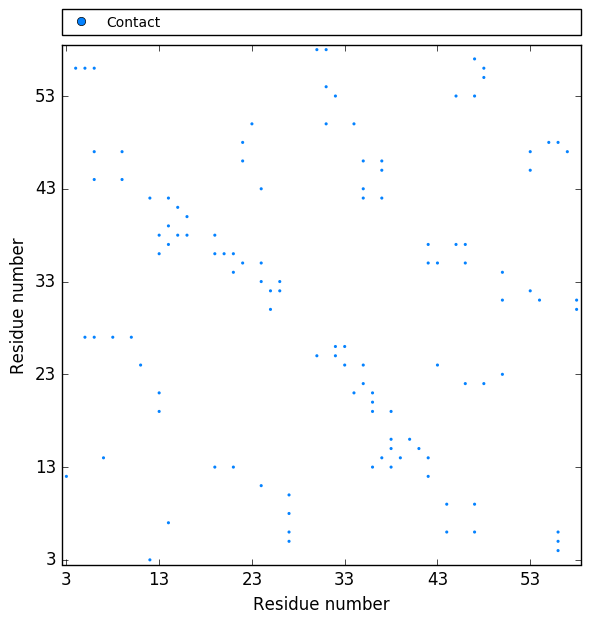
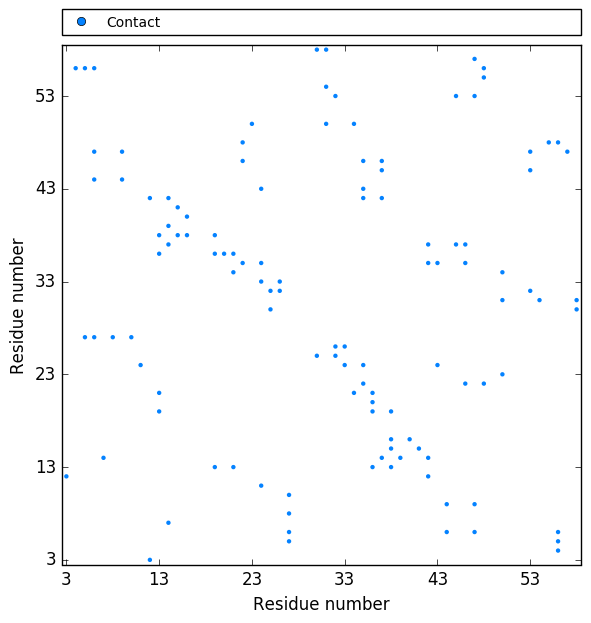
huge update on look and backend of plots; easy make cmd for figure generation added; scripts slightly modified; figures updated

Changed region(s): [[0.7614, 0.366, 0.7919, 0.3965], [0.6091, 0.61, 0.6396, 0.6404]]

diff --git a/conkit/plot/ContactMapPlot.py b/conkit/plot/ContactMapPlot.py
@@ -13,7 +13,6 @@ import matplotlib.pyplot
 import numpy
 
 from conkit import constants
-from conkit.core import ContactMap
 from conkit.plot._Figure import Figure
 
 
@@ -25,11 +24,11 @@ class ContactMapFigure(Figure):
         Parameters
         ----------
         hierarchy : :obj:`conkit.core.ContactMap`
-           A ConKit :obj:`conkit.core.ContactMap`
+           The default contact map hierarchy
         other : :obj:`conkit.core.ContactMap`, optional
-           A ConKit :obj:`conkit.core.ContactMap`
+           The second contact map hierarchy
         reference : :obj:`conkit.core.ContactMap`, optional
-           A ConKit :obj:`conkit.core.ContactMap` [this map refers to the reference contacts]
+           The reference contact map hierarchy
         altloc : bool, optional
            Use the res_altloc positions [default: False]
         use_conf : bool, optional
@@ -37,37 +36,70 @@ class ContactMapFigure(Figure):
         **kwargs
            General :obj:`conkit.plot._Figure.Figure` keyword arguments
 
-        Raises
-        ------
-        RuntimeError
-           The hierarchy is not a :obj:`conkit.core.SequenceFile` object
-
         """
         super(ContactMapFigure, self).__init__(**kwargs)
 
-        if not isinstance(hierarchy, ContactMap):
-            raise RuntimeError("Provided hierarchy is not a ContactMap")
-        elif other and not isinstance(other, ContactMap):
-            raise RuntimeError("Provided other hierarchy is not a ContactMap")
-        elif reference and not isinstance(reference, ContactMap):
-            raise RuntimeError("Provided reference hierarchy is not a ContactMap")
+        self._hierarchy = None
+        self._other = None
+        self._reference = None
 
-        self._hierarchy = hierarchy
-        self._other = other
-        self._reference = reference
-        self._altloc = altloc
-        self._use_conf = use_conf
+        self.altloc = altloc
+        self.use_conf = use_conf
+
+        self.hierarchy = hierarchy
+        self.other = other
+        self.reference = reference
 
         self._draw()
 
-    def draw(self):
+    @property
+    def hierarchy(self):
+        """The default contact map hierarchy"""
+        return self._hierarchy
+
+    @hierarchy.setter
+    def hierarchy(self, hierarchy):
+        """Define the default contact map hierarchy"""
+        if hierarchy:
+            Figure._check_hierarchy(hierarchy, "ContactMap")
+        self._hierarchy = hierarchy
+
+    @property
+    def other(self):
+        """The second contact map hierarchy"""
+        return self._other
+
+    @other.setter
+    def other(self, hierarchy):
+        """Define the default contact map hierarchy"""
+        if hierarchy:
+            Figure._check_hierarchy(hierarchy, "ContactMap")
+        self._other = hierarchy
+
+    @property
+    def reference(self):
+        """The reference contact map hierarchy"""
+        return self._reference
+
+    @reference.setter
+    def reference(self, hierarchy):
+        """Define the reference contact map hierarchy"""
+        if hierarchy:
+            Figure._check_hierarchy(hierarchy, "ContactMap")
+        self._reference = hierarchy
+
+    def redraw(self):
+        """Re-draw the plot with updated parameters"""
+        self._draw()
+
+    def _draw(self):
         """Draw the actual plot"""
 
         fig, ax = matplotlib.pyplot.subplots(dpi=self.dpi)
 
         # Plot the other_ref contacts
         if self._reference:
-            if self._altloc:
+            if self.altloc:
                 reference_data = numpy.asarray([(c.res1_altseq, c.res2_altseq)
                                                 for c in self._reference if c.is_true_positive])
             else:
@@ -75,9 +107,9 @@ class ContactMapFigure(Figure):
                                                 for c in self._reference if c.is_true_positive])
             reference_colors = [constants.RFCOLOR for _ in range(len(reference_data))]
             ax.scatter(reference_data.T[0], reference_data.T[1], color=reference_colors,
-                       marker='.', edgecolor='none', linewidths=0.0)
+                       s=10, marker='o', edgecolor='none', linewidths=0.0)
             ax.scatter(reference_data.T[1], reference_data.T[0], color=reference_colors,
-                       marker='.', edgecolor='none', linewidths=0.0)
+                       s=10, marker='o', edgecolor='none', linewidths=0.0)
 
         # Plot the self contacts
         self_data = numpy.asarray([(c.res1_seq, c.res2_seq, c.raw_score) for c in self._hierarchy])
@@ -86,14 +118,14 @@ class ContactMapFigure(Figure):
             else constants.FPCOLOR if contact.is_false_positive
             else constants.NTCOLOR for contact in self._hierarchy
             ]
-        if self._use_conf:
-            # TODO: Find a better scaling algorithm
-            self_sizes = (self_data.T[2] - self_data.T[2].min()) / (self_data.T[2].max() - self_data.T[2].min()) * 500
+        if self.use_conf:
+            self_sizes = (self_data.T[2] - self_data.T[2].min()) / (self_data.T[2].max() - self_data.T[2].min())
+            self_sizes = self_sizes * 20 + 10
         else:
-            self_sizes = None
+            self_sizes = [10] * len(self_data.T[2])
 
         # This is the bottom triangle
-        ax.scatter(self_data.T[1], self_data.T[0], color=self_colors, marker='.',
+        ax.scatter(self_data.T[1], self_data.T[0], color=self_colors, marker='o',
                    s=self_sizes, edgecolor='none', linewidths=0.0)
 
         # Plot the other contacts
@@ -104,17 +136,17 @@ class ContactMapFigure(Figure):
                 else constants.FPCOLOR if contact.is_false_positive
                 else constants.NTCOLOR for contact in self._other
                 ]
-            if self._use_conf:
-                # TODO: Find a better scaling algorithm
-                other_sizes = (other_data.T[2] - other_data.T[2].min()) / (other_data.T[2].max() - other_data.T[2].min()) * 500
+            if self.use_conf:
+                other_sizes = (other_data.T[2] - other_data.T[2].min()) / (other_data.T[2].max() - other_data.T[2].min())
+                other_sizes = other_sizes * 20 + 10
             else:
-                other_sizes = None
+                other_sizes = [10] * len(other_data.T[2])
             # This is the upper triangle
-            ax.scatter(other_data.T[0], other_data.T[1], color=other_colors, marker='.',
+            ax.scatter(other_data.T[0], other_data.T[1], color=other_colors, marker='o',
                        s=other_sizes, edgecolor='none', linewidths=0.0)
         else:
             # This is the upper triangle
-            ax.scatter(self_data.T[0], self_data.T[1], color=self_colors, marker='.',
+            ax.scatter(self_data.T[0], self_data.T[1], color=self_colors, marker='o',
                        s=self_sizes, edgecolor='none', linewidths=0.0)
 
         # Allow dynamic x and y limits
@@ -140,11 +172,11 @@ class ContactMapFigure(Figure):
         # Create a custom legend
         if self._reference:
             tp_artist = matplotlib.pyplot.Line2D((0, 1), (0, 0), color=constants.TPCOLOR,
-                                                 marker='o', linestyle='', label='True positive')
+                                                 marker='o', linestyle='', label='Match')
             fp_artist = matplotlib.pyplot.Line2D((0, 1), (0, 0), color=constants.FPCOLOR,
-                                                 marker='o', linestyle='', label='False positive')
+                                                 marker='o', linestyle='', label='Mismatch')
             rf_artist = matplotlib.pyplot.Line2D((0, 1), (0, 0), color=constants.RFCOLOR,
-                                                 marker='o', linestyle='', label='Reference')
+                                                 marker='o', linestyle='', label='Structural')
             artists = [tp_artist, fp_artist, rf_artist]
         else:
             nt_artist = matplotlib.pyplot.Line2D((0, 1), (0, 0), color=constants.NTCOLOR,

diff --git a/conkit/plot/SequenceCoveragePlot.py b/conkit/plot/SequenceCoveragePlot.py
@@ -11,7 +11,6 @@ __version__ = 0.1
 import matplotlib.pyplot
 import numpy
 
-from conkit.core import SequenceFile
 from conkit.plot._Figure import Figure
 
 
@@ -27,24 +26,35 @@ class SequenceCoverageFigure(Figure):
         **kwargs
            General :obj:`conkit.plot._Figure.Figure` keyword arguments
 
+
+        """
+        super(SequenceCoverageFigure, self).__init__(**kwargs)
+        self._hierarchy = hierarchy
+        self._draw()
+
+    @property
+    def hierarchy(self):
+        """A ConKit :obj:`conkit.core.SequenceFile`"""
+        return self._hierarchy
+
+    @hierarchy.setter
+    def hierarchy(self, hierarchy):
+        """Define the ConKit :obj:`conkit.core.SequenceFile`
+
         Raises
         ------
         RuntimeError
            The hierarchy is not an alignment
-        RuntimeError
-           The hierarchy is not a :obj:`conkit.core.SequenceFile` object
 
         """
-        super(SequenceCoverageFigure, self).__init__(**kwargs)
-
-        if not isinstance(hierarchy, SequenceFile):
-            raise RuntimeError("Provided hierarchy is not a SequenceFile")
-
-        if not hierarchy.is_alignment:
-            raise RuntimeError("Provided hierarchy does not show characteristics of an alignment")
-
+        if hierarchy:
+            Figure._check_hierarchy(hierarchy, "SequenceFile")
+            if not hierarchy.is_alignment:
+                raise RuntimeError("Provided hierarchy does not show characteristics of an alignment")
         self._hierarchy = hierarchy
 
+    def redraw(self):
+        """Re-draw the plot with updated parameters"""
         self._draw()
 
     def _draw(self):
@@ -54,15 +64,16 @@ class SequenceCoverageFigure(Figure):
         aa_frequencies = numpy.asarray(self._hierarchy.calculate_freq()) * self._hierarchy.top_sequence.seq_len
 
         fig, ax = matplotlib.pyplot.subplots(dpi=self.dpi)
-        ax.plot(residues, aa_frequencies, color='#000000', marker='.', linestyle='-',
-                label='Amino acid count')
+        ax.plot(residues, aa_frequencies, color='#000000', marker='o', linestyle='-',
+                markersize=5, label='Amino acid count')
 
         ax.axhline(self._hierarchy.top_sequence.seq_len * 0.3, color='r', label='30% Coverage')
         ax.axhline(self._hierarchy.top_sequence.seq_len * 0.6, color='g', label='60% Coverage')
 
         # Prettify the plot
-        ax.set_xticks(residues)
-        ax.set_xticklabels(residues)
+        xticks = numpy.arange(1, self._hierarchy.top_sequence.seq_len + 1, 5)
+        ax.set_xticks(xticks)
+        ax.set_xticklabels(xticks)
 
         ax.set_xlabel('Residue number')
         ax.set_ylabel('Sequence Count')

diff --git a/conkit/plot/tests/test__Figure.py b/conkit/plot/tests/test__Figure.py
@@ -1,0 +1,66 @@
+"""Testing facility for conkit.plot._Figure"""
+
+__author__ = "Felix Simkovic"
+__date__ = "08 Feb 2017"
+
+from conkit.plot._Figure import Figure
+
+import unittest
+
+
+class Test(unittest.TestCase):
+
+    def test__init__(self):
+        f = Figure()
+        self.assertEqual(300, f.dpi)
+        self.assertEqual("png", f.format)
+        self.assertEqual("conkit", f.prefix)
+
+        f = Figure(dpi=20, format="svg")
+        self.assertEqual(20, f.dpi)
+        self.assertEqual("svg", f.format)
+        self.assertEqual("conkit", f.prefix)
+
+        self.assertRaises(ValueError, Figure, format="ooo")
+
+    def test_dpi(self):
+        f = Figure()
+        self.assertEqual(300, f.dpi)
+        f.dpi = 20
+        self.assertEqual(20, f.dpi)
+
+    def test_filename(self):
+        f = Figure()
+        self.assertEqual("conkit.png", f.file_name)
+        f.file_name = "test.eps"
+        self.assertEqual("test.eps", f.file_name)
+        self.assertEqual("eps", f.format)
+        self.assertEqual("test", f.prefix)
+        f.format = "pdf"
+        self.assertEqual("test.pdf", f.file_name)
+        self.assertEqual("pdf", f.format)
+        self.assertEqual("test", f.prefix)
+        self.assertRaises(ValueError, setattr, f, "file_name", "test.ooo")
+
+    def test_format(self):
+        f = Figure()
+        self.assertEqual("png", f.format)
+        f.format = "pdf"
+        self.assertEqual("pdf", f.format)
+        f.format = "ps"
+        self.assertEqual("ps", f.format)
+        f.format = "png"
+        self.assertEqual("png", f.format)
+        self.assertRaises(ValueError, setattr, f, "format", "bbb")
+
+    def test_prefix(self):
+        f = Figure()
+        self.assertEqual("conkit", f.prefix)
+        f.prefix = "test"
+        self.assertEqual("test", f.prefix)
+        f.prefix = "/path/to/prefix"
+        self.assertEqual("/path/to/prefix", f.prefix)
+
+
+if __name__ == "__main__":
+    unittest.main(verbosity=2)

diff --git a/conkit/plot/_Figure.py b/conkit/plot/_Figure.py
@@ -3,6 +3,12 @@ __author__ = "Felix Simkovic"
 __date__ = "07 Feb 2017"
 __version__ = 0.1
 
+from conkit.core import Contact
+from conkit.core import ContactMap
+from conkit.core import ContactFile
+from conkit.core import Sequence
+from conkit.core import SequenceFile
+
 
 class Figure(object):
     """A Figure class to store common features
@@ -100,3 +106,22 @@ class Figure(object):
     def prefix(self, prefix):
         """Define the prefix of the figure file"""
         self._prefix = prefix
+
+    @staticmethod
+    def _check_hierarchy(h, t):
+        """Check the hierarchy is of a specific type
+
+        Raises
+        ------
+        TypeError
+           Provided hierarchy is not of specified type
+        ValueError
+           Type is unknown
+
+        """
+        dict = {'Contact': Contact, 'ContactMap': ContactMap, 'ContactFile': ContactFile,
+                'Sequence': Sequence, 'SequenceFile': SequenceFile}
+        if t not in dict.keys():
+            raise ValueError("Type {0} is unknown".format(t))
+        elif not isinstance(h, dict[t]):
+            raise TypeError("Provided hierarchy is not a {0}".format(t))

diff --git a/docs/examples/plot_map.rst b/docs/examples/plot_map.rst
@@ -36,7 +36,7 @@ The call above produces a contact map plot looking like this. The gray points ar
 
 --------------------------------------------------------------
 
-Finally, you could also add a second contact prediction file to the call to compare two maps against each other.
+You could also add a second contact prediction file to the call to compare two maps against each other.
 
 .. code-block:: bash
 
@@ -47,9 +47,22 @@ The call above produces a contact map plot looking like this. The gray points ar
 .. image:: images/toxd_cmap_advanced.png
    :alt: Toxd CMap Advanced
 
+--------------------------------------------------------------
+
+Finally, you could also illustrate the confidence with which each contact was predicted.
+
+.. code-block:: bash
+
+   $> conkit.plot_map --confidence -e toxd/toxd.psicov -ef psicov -p toxd/toxd.pdb toxd/toxd.fasta fasta toxd/toxd.mat ccmpred
+
+The call above produces a contact map plot looking like this. All parameters and settings are identical to the previous map except the ``--confidence`` flag, which will show more confidently predicted contacts as larger markers.
+
+.. image:: images/toxd_cmap_confidence.png
+   :alt: Toxd CMap Confidence
+
 .. note::
 
-   You can use the last example also **without** a reference structure!
+   You can use the last two examples also **without** a reference structure!
 
 --------------------------------------------------------
 
